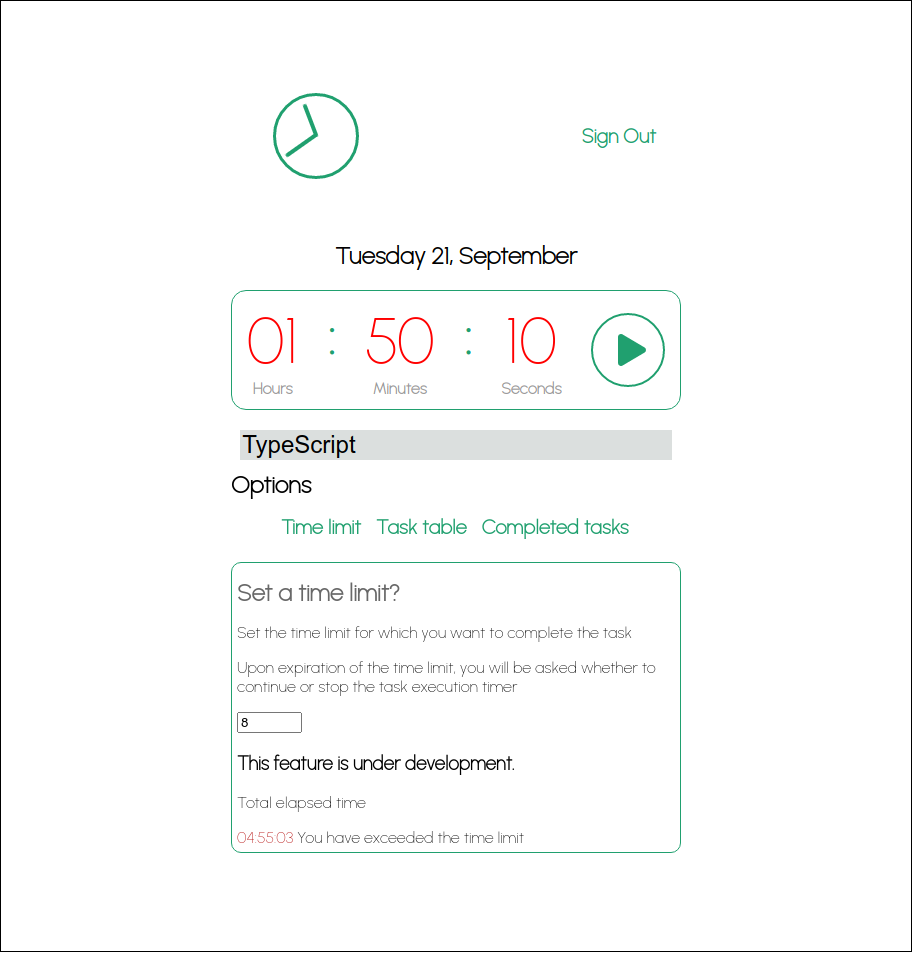
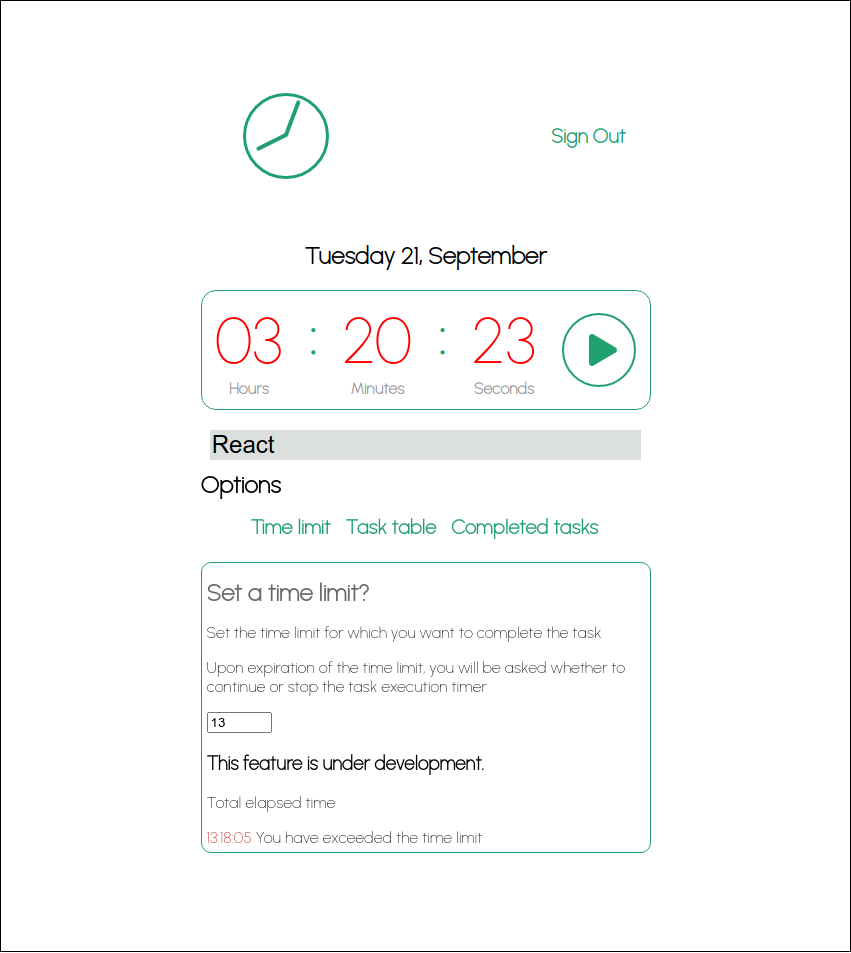
change timeLimit.png

diff --git a/frontend/src/Home/components/Limitation/Limitation.js b/frontend/src/Home/components/Limitation/Limitation.js
@@ -58,7 +58,11 @@ const Limitation = ({ start }) => {
                 </p>
                 <input type='number'
                     min='0' max='24'
-                    onChange={(e) => dispatch(setTimeLimit(e.target.value))} />
+                    defaultValue={localStorage.getItem('timeLimit')}
+                    onChange={(e) => {
+                        dispatch(setTimeLimit(e.target.value));
+                        localStorage.setItem('timeLimit', e.target.value)
+                    }} />
                 <div>
                     <h3>This feature is under development.</h3>
                 </div>

diff --git a/frontend/src/Home/Home.js b/frontend/src/Home/Home.js
@@ -107,9 +107,9 @@ const Home = () => {
     }, [dispatch, user.id, start])
 
     useEffect(() => {
-
+        
     }, [timeLimit])
-
+ 
 
     let getTime = (h, m, s) => {
         //Собирает значения полей времени в обьект
